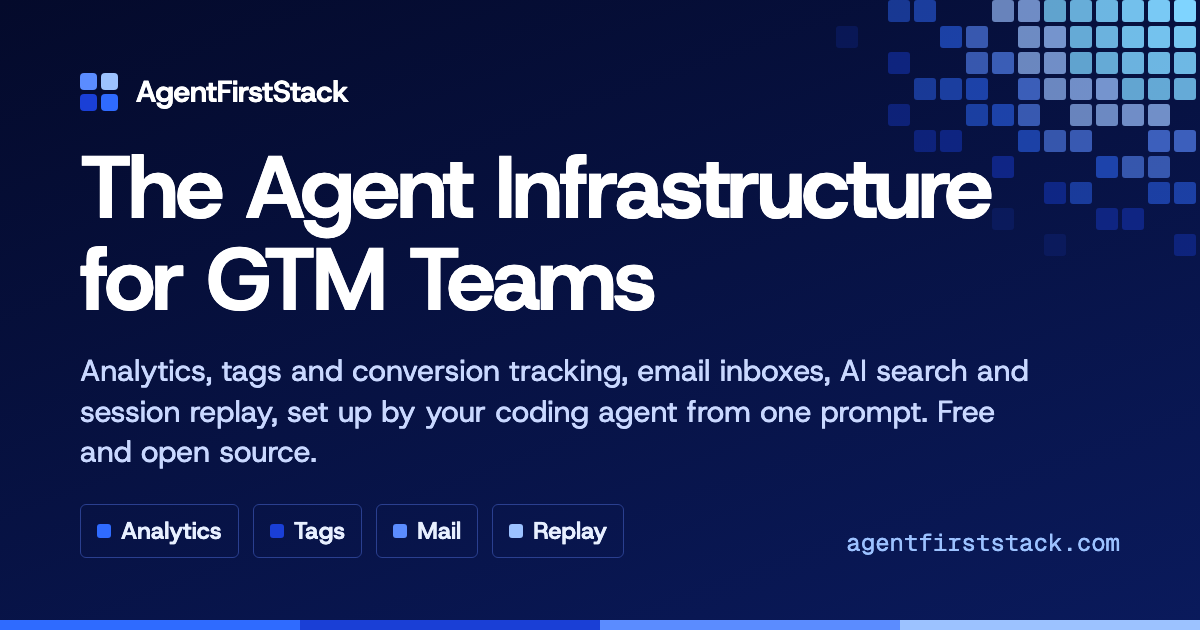
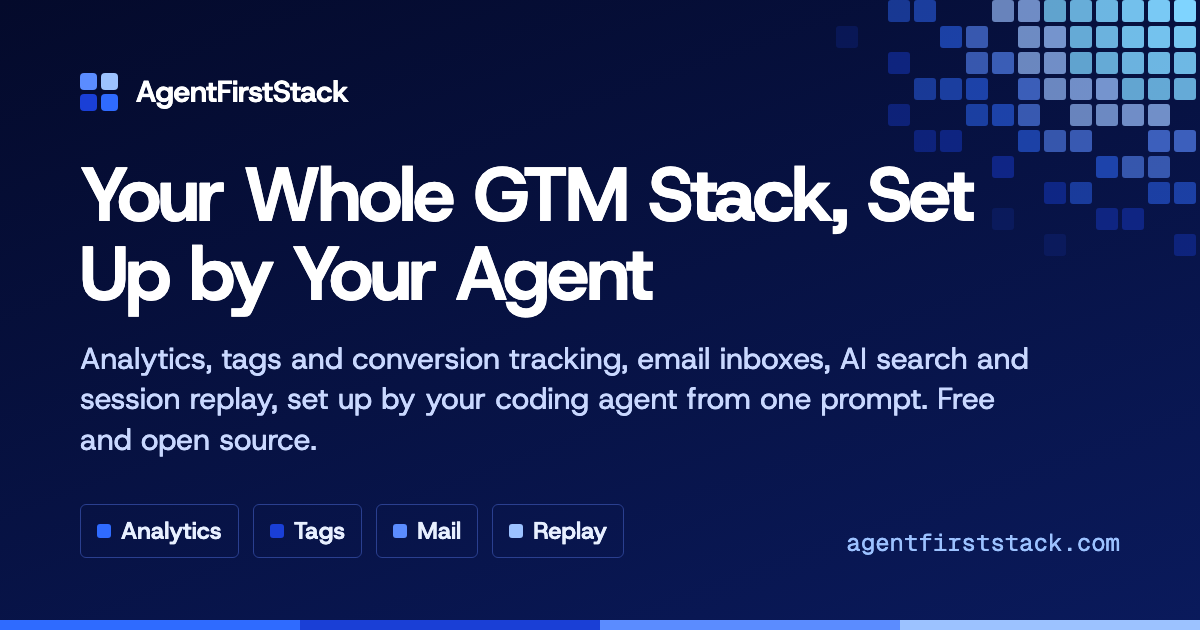
Home headline: "Your Whole GTM Stack, Set Up by Your Agent"
"The Agent Infrastructure for GTM Teams" could read as infrastructure for
running agents, and didn't say who does the setup. The new headline says
what you get and that your agent sets it up, in two set lines: the type
scales so "Your Whole GTM Stack," always fits one line of the column, from
phones to desktop. Title, social previews, the OG card, JSON-LD and
index.md follow.

Claude-Session: https://claude.ai/code/session_01HFoY5UqoJPMDEvKj4n3CxU

Changed region(s): [[0.0617, 0.2413, 0.8325, 0.5127], [0.0617, 0.5429, 0.8633, 0.754]]

diff --git a/site/public/index.html b/site/public/index.html
@@ -3,7 +3,7 @@
 <head>
 <meta charset="utf-8">
 <meta name="viewport" content="width=device-width, initial-scale=1">
-<title>AgentFirstStack: The Agent Infrastructure for GTM Teams</title>
+<title>AgentFirstStack: Your Whole GTM Stack, Set Up by Your Agent</title>
 <meta name="description" content="Analytics, tags and server-side conversion tracking, email inboxes, AI search, page speed and session replay, set up end to end by your coding agent from one prompt. Free and open source.">
 <meta name="robots" content="index, follow, max-image-preview:large, max-snippet:-1">
 <link rel="canonical" href="https://agentfirststack.com/">
@@ -15,15 +15,15 @@
 <meta property="og:site_name" content="AgentFirstStack">
 <meta property="og:locale" content="en_US">
 <meta property="og:type" content="website">
-<meta property="og:title" content="AgentFirstStack: the agent infrastructure for GTM teams">
+<meta property="og:title" content="AgentFirstStack: your whole GTM stack, set up by your agent">
 <meta property="og:description" content="Analytics, tags and conversion tracking, email inboxes, AI search and session replay your AI agent sets up from one prompt. Free and open source.">
 <meta property="og:url" content="https://agentfirststack.com/">
 <meta property="og:image" content="https://agentfirststack.com/og/home.png">
 <meta property="og:image:width" content="1200">
 <meta property="og:image:height" content="630">
-<meta property="og:image:alt" content="AgentFirstStack: the agent infrastructure for GTM teams.">
+<meta property="og:image:alt" content="AgentFirstStack: your whole GTM stack, set up by your agent.">
 <meta name="twitter:card" content="summary_large_image">
-<meta name="twitter:title" content="AgentFirstStack: the agent infrastructure for GTM teams">
+<meta name="twitter:title" content="AgentFirstStack: your whole GTM stack, set up by your agent">
 <meta name="twitter:description" content="Analytics, tags and conversion tracking, email inboxes, AI search and session replay your AI agent sets up from one prompt. Free and open source.">
 <meta name="twitter:image" content="https://agentfirststack.com/og/home.png">
 <meta name="theme-color" content="#040A2B">
@@ -58,7 +58,7 @@
       "@id": "https://agentfirststack.com/#app",
       "name": "AgentFirstStack",
       "url": "https://agentfirststack.com/",
-      "description": "The agent infrastructure for GTM teams: free, open-source analytics, tag management with server-side conversion tracking, email inboxes, AI search analytics, page speed and session replay that an AI agent sets up by itself over REST and MCP. One request returns an API key: no signup form, no verification email.",
+      "description": "Your whole GTM stack, set up by your agent: free, open-source analytics, tag management with server-side conversion tracking, email inboxes, AI search analytics, page speed and session replay that an AI agent sets up by itself over REST and MCP. One request returns an API key: no signup form, no verification email.",
       "applicationCategory": "DeveloperApplication",
       "applicationSubCategory": "Web analytics, tag management, email, session replay",
       "operatingSystem": "Web",
@@ -115,7 +115,7 @@
         <li><a href="/llms.txt"><svg viewBox="0 0 16 16" aria-hidden="true"><path d="M8 2.8l1.4 3.8 3.8 1.4-3.8 1.4L8 13.2 6.6 9.4 2.8 8l3.8-1.4z"/></svg>Agent first</a></li>
         <li><a href="/privacy"><svg viewBox="0 0 16 16" aria-hidden="true"><path d="M8 1.8l5 1.9v3.9c0 3.2-2.1 5.6-5 6.6-2.9-1-5-3.4-5-6.6V3.7z"/><path d="M5.8 8l1.6 1.6 2.9-3"/></svg>Privacy first</a></li>
       </ul>
-      <h1 id="hero-title">The Agent Infrastructure for GTM Teams</h1>
+      <h1 id="hero-title">Your Whole GTM Stack,<br> Set Up by Your Agent</h1>
       <p class="lede">Analytics, a tag manager with server-side conversion tracking, email inboxes, AI search, page speed and session replay. Your coding agent sets it all up from one prompt, checks every part works, and hands you a dashboard. Free, and served from your own domain.</p>
       <div class="actions">
         <button class="btn btn-bright" type="button" data-copy data-cta="hero">Copy the setup prompt</button>

diff --git a/site/public/home.css b/site/public/home.css
@@ -178,14 +178,14 @@ a {
   background: rgba(156, 194, 255, 0.12);
   box-shadow: inset 0 0 0 1px rgba(156, 194, 255, 0.28);
 }
+/* Two set lines; sized so the longer, "Your Whole GTM Stack,", always fits the column. */
 .hero h1 {
   margin-top: 22px;
-  font-size: clamp(42px, 5.6vw, 72px);
+  font-size: clamp(34px, 4.4vw, 52px);
   font-weight: 700;
-  line-height: 1;
+  line-height: 1.02;
   letter-spacing: -0.045em;
   text-wrap: balance;
-  max-width: 13ch;
 }
 .lede {
   margin-top: 22px;
@@ -1186,6 +1186,9 @@ a {
 
 /* Phones: every button the full width, so stacked pairs line up; small links get room to tap. */
 @media (max-width: 640px) {
+  .hero h1 {
+    font-size: min(8.8vw, 40px);
+  }
   .actions .btn,
   .band .btn,
   .live-head .btn {

diff --git a/site/public/index.md b/site/public/index.md
@@ -1,4 +1,4 @@
-# AgentFirstStack: The Agent Infrastructure for GTM Teams
+# AgentFirstStack: Your Whole GTM Stack, Set Up by Your Agent
 
 Analytics, a tag manager with server-side conversion tracking, email inboxes, AI search, page speed and
 session replay. Your coding agent sets it all up from one prompt, checks every part works, and hands you
